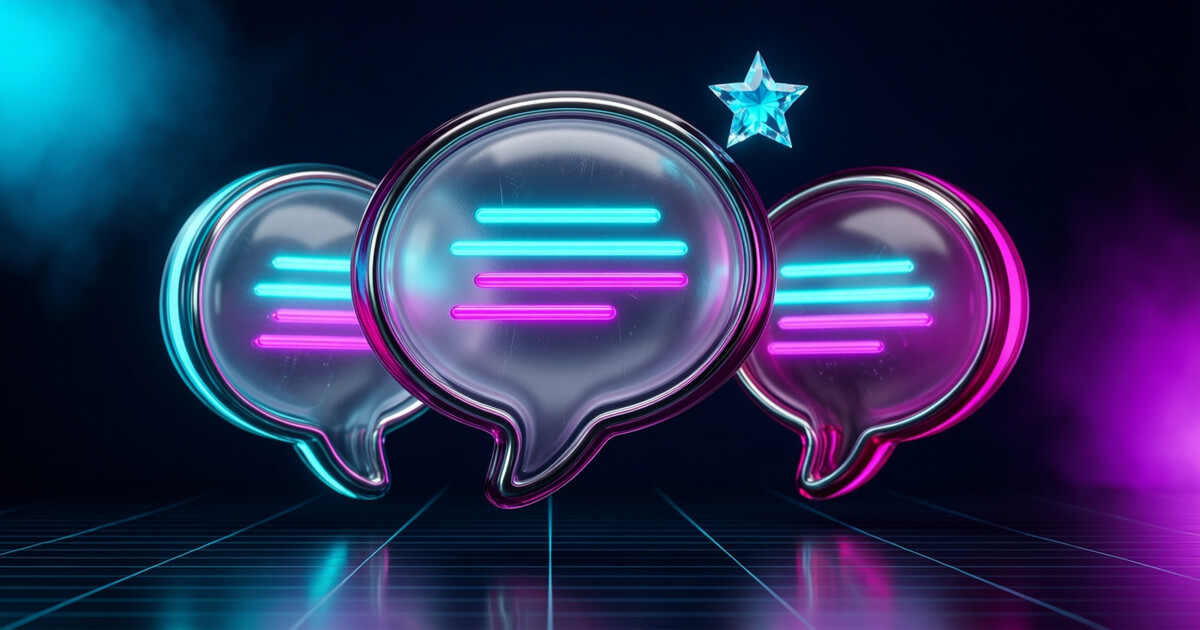
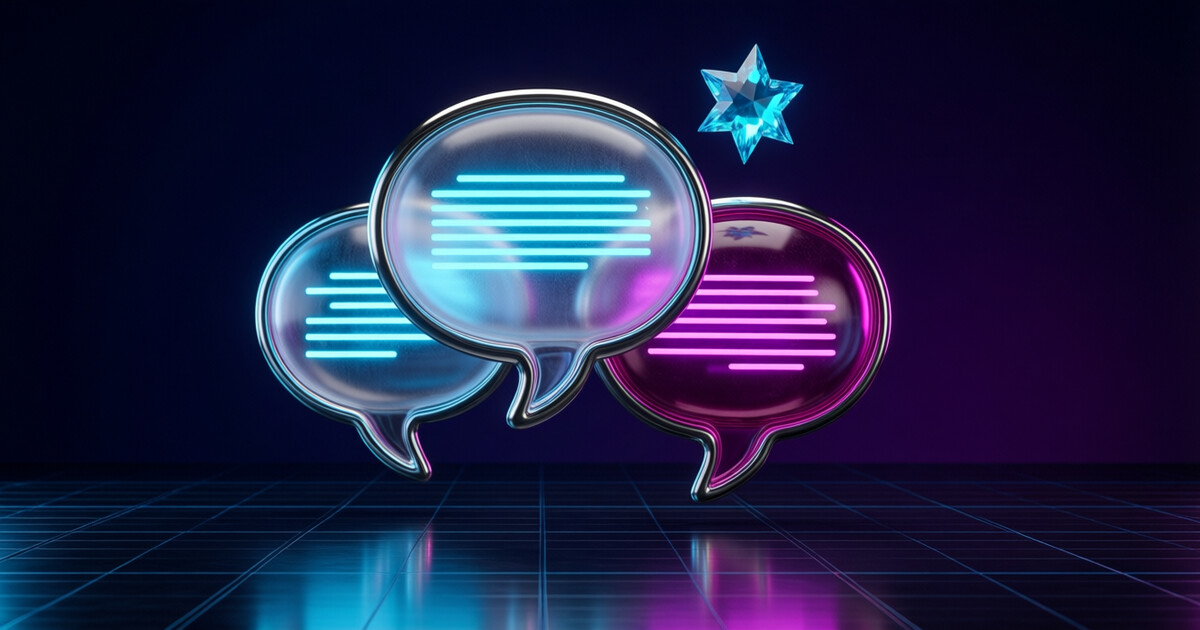
обложки статей: avtomatizatsiya-telegram-kanala

diff --git a/journal/lokalnaya-neyroset/index.html b/journal/lokalnaya-neyroset/index.html
@@ -150,7 +150,7 @@ try{if(localStorage.getItem("tl-consent-v2")==="accepted"){window.tlLoadMetrika(
 
   <section class="related">
     <h2>Читайте также</h2>
-    <div class="rel-list"><a href="https://timlabs.online/journal/bot-dlya-zapisi-klientov/">Бот для записи клиентов в Telegram: что он должен уметь</a><a href="https://timlabs.online/journal/korporativnyy-blog/">Корпоративный блог с ИИ-агентами: опыт журнала «Компас»</a><a href="https://timlabs.online/ii-avtomatizaciya/#zhurnal-pod-klyuch">Журнал под ключ: статьи по поисковому спросу</a><a href="https://timlabs.online/ii-avtomatizaciya/#biznesu">ИИ для бизнеса: боты и агенты</a><a href="https://timlabs.online/journal/">Журнал «Компас»</a></div>
+    <div class="rel-list"><a href="https://timlabs.online/journal/bot-dlya-zapisi-klientov/">Бот для записи клиентов в Telegram: что он должен уметь</a><a href="https://timlabs.online/journal/korporativnyy-blog/">Корпоративный блог с ИИ-агентами: что я понял за два месяца «Компаса»</a><a href="https://timlabs.online/ii-avtomatizaciya/#zhurnal-pod-klyuch">Журнал под ключ: статьи по поисковому спросу</a><a href="https://timlabs.online/ii-avtomatizaciya/#biznesu">ИИ для бизнеса: боты и агенты</a><a href="https://timlabs.online/journal/">Журнал «Компас»</a></div>
   </section>
 
   <div class="callout"><h2>Своя модель под ваши задачи</h2><p>Если хотите понять, какую часть вашей рутины можно перенести на свою нейросеть, напишите мне. Посчитаю нагрузку и скажу честно, нужна ли она вам.</p><div class="cta-row"><a class="btn" href="https://timlabs.online/ii-avtomatizaciya/">Обсудить автоматизацию со мной</a></div></div>

diff --git a/journal/bot-dlya-zapisi-klientov/index.html b/journal/bot-dlya-zapisi-klientov/index.html
@@ -151,7 +151,7 @@ try{if(localStorage.getItem("tl-consent-v2")==="accepted"){window.tlLoadMetrika(
 
   <section class="related">
     <h2>Читайте также</h2>
-    <div class="rel-list"><a href="https://timlabs.online/journal/lokalnaya-neyroset/">Локальная нейросеть: когда своя модель выгоднее облака</a><a href="https://timlabs.online/journal/korporativnyy-blog/">Корпоративный блог с ИИ-агентами: опыт журнала «Компас»</a><a href="https://timlabs.online/ii-avtomatizaciya/#zhurnal-pod-klyuch">Журнал под ключ: статьи по поисковому спросу</a><a href="https://timlabs.online/ii-avtomatizaciya/#biznesu">ИИ для бизнеса: боты и агенты</a><a href="https://timlabs.online/journal/">Журнал «Компас»</a></div>
+    <div class="rel-list"><a href="https://timlabs.online/journal/lokalnaya-neyroset/">Локальная нейросеть: когда своя модель выгоднее облака</a><a href="https://timlabs.online/journal/korporativnyy-blog/">Корпоративный блог с ИИ-агентами: что я понял за два месяца «Компаса»</a><a href="https://timlabs.online/ii-avtomatizaciya/#zhurnal-pod-klyuch">Журнал под ключ: статьи по поисковому спросу</a><a href="https://timlabs.online/ii-avtomatizaciya/#biznesu">ИИ для бизнеса: боты и агенты</a><a href="https://timlabs.online/journal/">Журнал «Компас»</a></div>
   </section>
 
   <div class="callout"><h2>Бот для вашей записи</h2><p>Если клиенты пишут вам, пока вы заняты, напишите мне. Разберу, как они приходят сейчас, и предложу сценарий бота под ваш приём.</p><div class="cta-row"><a class="btn" href="https://t.me/+79938917761">Написать в Telegram</a><a class="btn" href="https://wa.me/79938917761">Написать в WhatsApp</a></div></div>

diff --git a/SESSIONS.md b/SESSIONS.md
@@ -959,3 +959,4 @@
 - 18.10 22:01 Telegram с сервера восстановлен: подписка Monkey Island Тима (ключ happ://crypt5 расшифрован своим портом hpwnr → /root/.sub_url), xray_pick: HWID-заголовки, текстовый формат (UA v2rayNG), сервер Германия; EOS VPN Антона больше не используем
 - 18.10 22:40 humanize: проверка повторов/тавтологии (repetition_problems) в voice_problems(post), dialog_problems, статьи — только тавтологии; стоп-лист связок для постов; подпись поста resursnoe-sostoyanie в канале переписана вручную после замечания читателя
 - 18.10 22:55 distributor: учебные пары анонсов (teacher/announce.jsonl) для ночного дообучения Bonsai; затравка — ручная правка поста
+- 19.10 04:10 журнал: статья resursnoe-sostoyanie переведена в «Эмоции и психология» (рубрика дня подставлялась теме без кластера — теперь _infer_cluster по ядру, a903fa4); стиль обложек: ровный градиент вместо двух пятен (prompts.json _style); 3 статьи 15.10 без обложек + 6 старых поставлены в очередь cover_auto (пересборка ночью)
